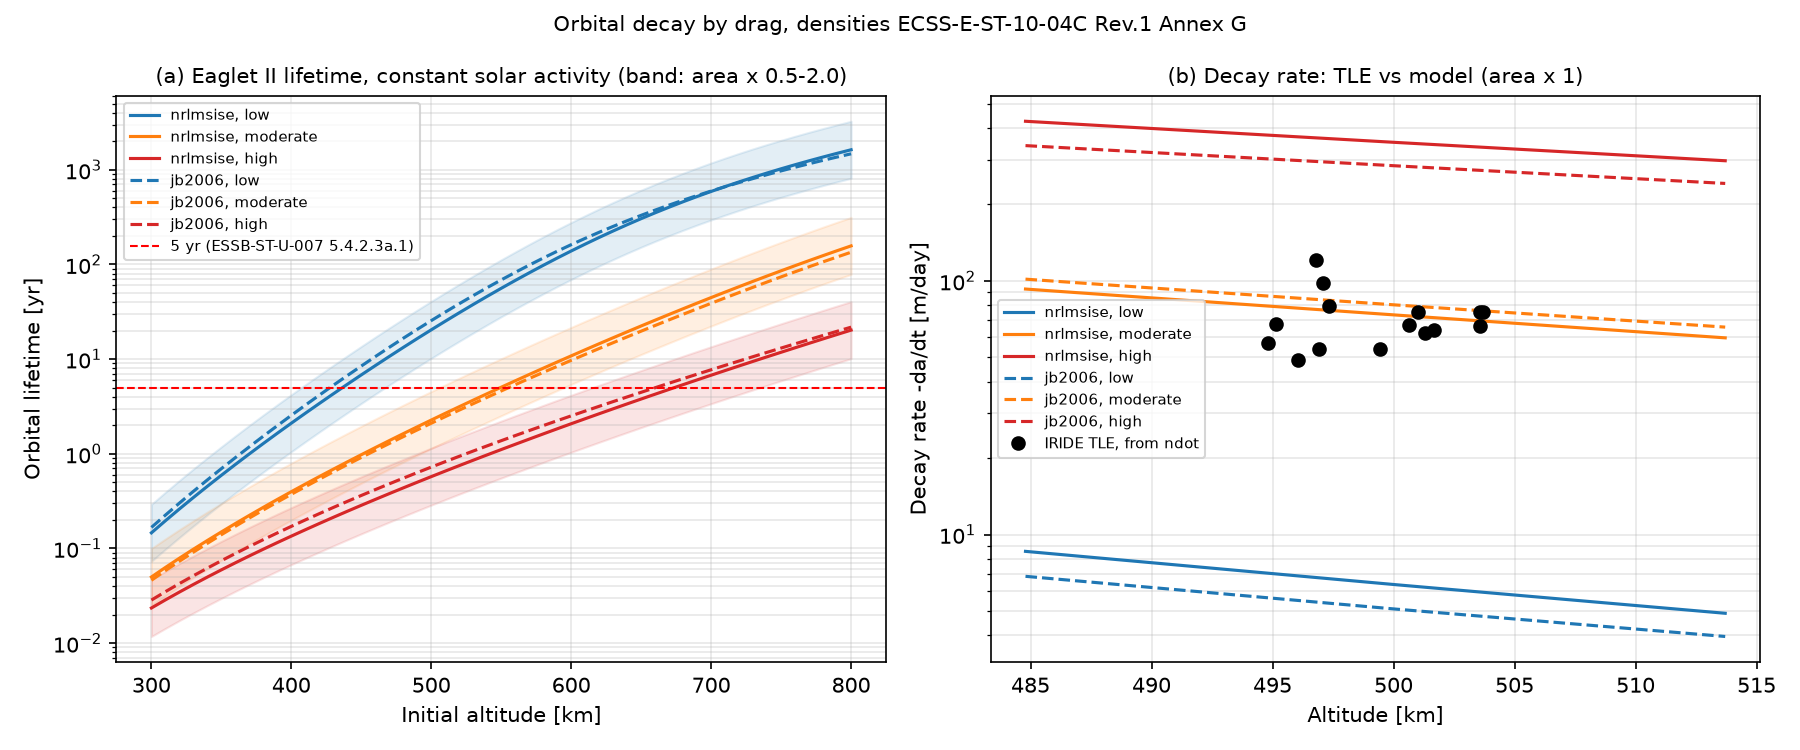
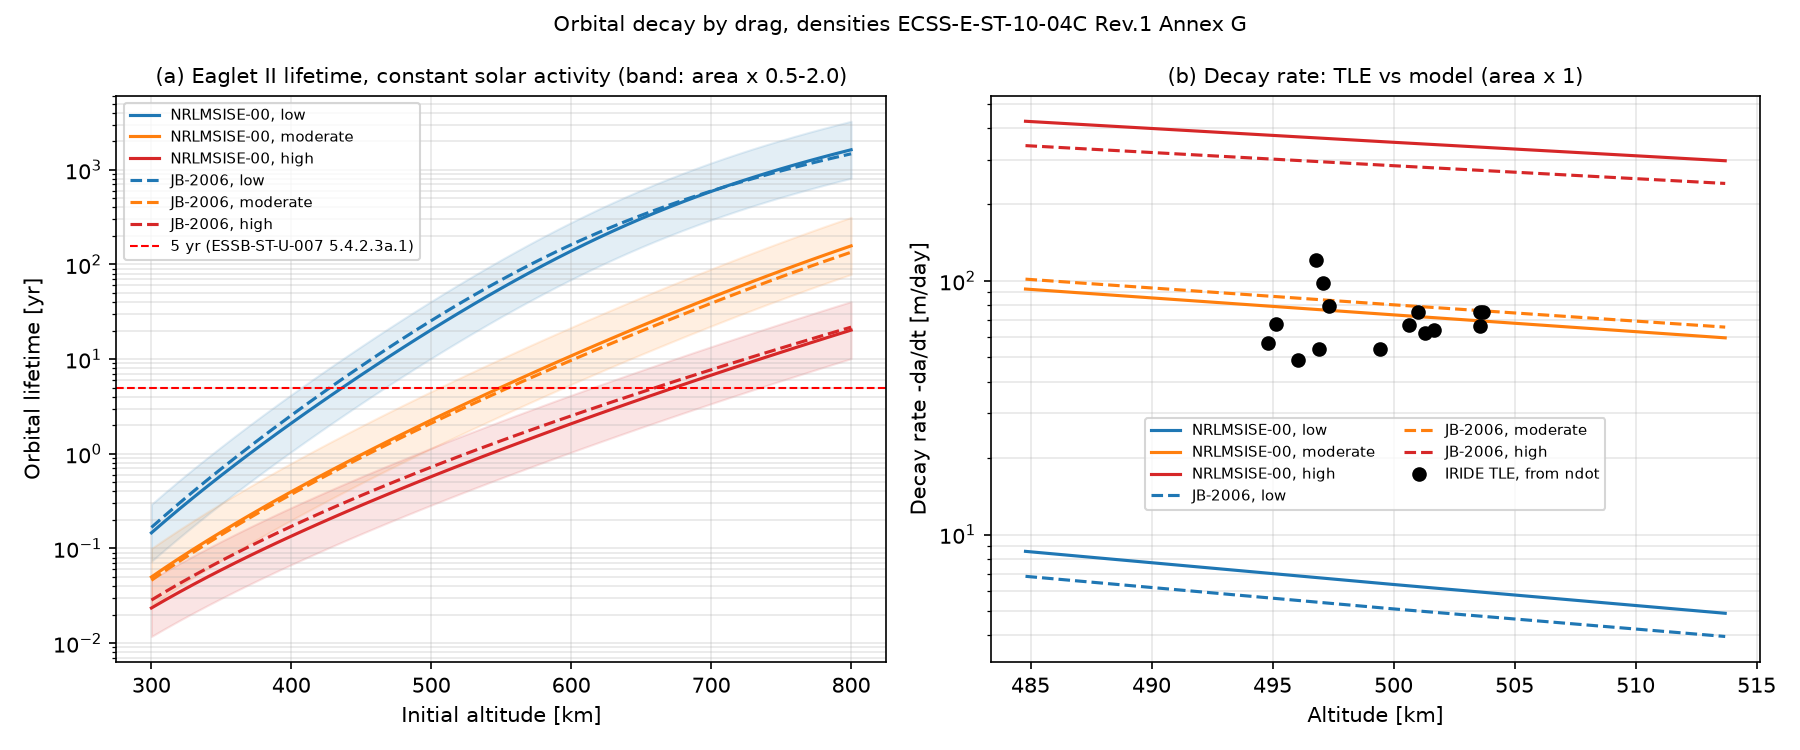
Fast default mode, --full for the report numbers, smoke test, figure fixes, 125 tests passing
- main.py: default = fast mode, N_RUNS_FAST = 200 Monte Carlo runs, no T* seed check, numbers
  printed as APPROXIMATE at start and end; --full = report numbers (1000 runs + T* seeds 42-44).
  --full output verified identical to the previous --full (diff: only the mode line).
  Measured run times in the docstring (fast 5.1 min, --full 14.6 min, flags listed).
- tests/test_main_smoke.py (marked slow, pytest -m slow): fast run of main.py with every DRAMA
  path redirected to a missing folder; finishes, reports the skipped cases, writes the figures.
- data/revisit_table.npz and data/iride_coverage.npz now tracked: derived data (coverage
  lookup tables), not inputs. main.py checks their key (coverage parameters, CSV checksum for
  IRIDE) and rebuilds them if params change; a fresh clone saves ~20-30 min.
- Figures (layout only, no number changed): shorter legend in solar_cycle (a), model names
  NRLMSISE-00 / JB-2006, shorter titles in availability_vs_order_time, legends below the panels
  in cost_vs_availability, revisit_table margins and colorbar unit, decay (b) legend moved,
  altitude_trade lower-bound marker explained in the legend (regenerated with --full --trade).
- params.py: IRIDE_FIRST_LAUNCH source (ASI, https://www.asi.it/en/?p=62498); N_RUNS_FAST.
- requirements.txt: minimum versions used (numpy 2.5.4, scipy 1.18.1, matplotlib 3.11.2,
  pytest 9.2.0; Python 3.15.2).

Changed region(s): [[0.56, 0.3987, 0.9022, 0.6747], [0.0933, 0.1227, 0.1867, 0.3067]]

diff --git a/main.py b/main.py
@@ -43,17 +43,30 @@ Second scenario: IRIDE Eaglet II, planes reconstructed from the derived TLE tabl
 (inputs/iride_eaglet2_elements.csv, written by fetch_tle.py; planes.py).
 
 Usage:
-    python main.py          fast mode (default): the check of T* with the extra seeds
-                            params.SEEDS_CHECK is skipped and the altitude trade-off is not
-                            run; every other result is identical
-    python main.py --full   also runs the T* check with the extra seeds
+    python main.py          fast mode (default): N_RUNS_FAST Monte Carlo runs instead of
+                            N_RUNS / N_RUNS_SWEEP, no check of T* with the extra seeds
+                            params.SEEDS_CHECK: numbers APPROXIMATE, same models and figures
+    python main.py --full   numbers of the report: N_RUNS / N_RUNS_SWEEP runs and the T* check
+                            with the extra seeds
     python main.py --trade  also runs the altitude trade-off (altitude_trade.png)
     python main.py --reliability  also runs the reliability sensitivity (Small-category Weibull,
                             Dubos et al. 2009) at ALT_KM with the reference Walker
-    Run time on the development laptop (2026-11-11): default ~8 min, --trade ~53 min
-    (solar cycle tables at 700-800 km take most of the extra time).
-    --full adds ~4 min (measured before v0.3, not re-measured).
-    --reliability adds ~7 min (measured 2026-11-13: default + --reliability = 14.8 min).
+    Run time on the development laptop (measured 2026-11-13, Python 3.15.2, coverage cache
+    data/*.npz present as in the repository):
+        python main.py                            5.1 min
+        python main.py --reliability             11.8 min   (+6.7)
+        python main.py --trade                   15.9 min   (+10.8) *
+        python main.py --reliability --trade     22.6 min
+        python main.py --full                    14.6 min
+        python main.py --full --reliability      28.1 min   (+13.5) *
+        python main.py --full --trade            38.8 min   (+24.3)
+    Read from per-line timestamps of complete runs (--reliability --trade, --full --trade,
+    --full --reliability --trade): a run without a flag ends where that flag's section starts.
+    * = sum of sections taken from two different runs.
+    About 3 min of the fast default do not depend on the number of runs (solar cycle tables,
+    decay, coverage post-processing). Without data/revisit_table.npz and data/iride_coverage.npz
+    the coverage tables are rebuilt once: ~20-30 min more.
+    Tests: pytest (~1 min); end-to-end run without the DRAMA files: pytest -m slow (~5 min).
     To follow the progress when the output goes to a file: python -u main.py > run.log
 """
 
@@ -84,6 +97,8 @@ from reliability import reliability_analytic
 from search import bisect_interval, search_max_interval
 
 FIG_DIR = "figures"
+ATM_LABELS = {"nrlmsise": "NRLMSISE-00", "jb2006": "JB-2006"}  # model names for the figures
+N_RUNS_REPORT = params.N_RUNS  # runs of the report (--full); main() lowers params.N_RUNS in fast mode
 COVERAGE_CACHE = os.path.join("data", "revisit_table.npz")
 DAY_S = params.SECONDS_PER_DAY
 YEAR_S = params.SECONDS_PER_YEAR
@@ -142,18 +157,20 @@ def hours(x_s):
 # Constellation runs
 # ---------------------------------------------------------------------------
 
-def run_strategy(strategy, order_to_launch_days, n_runs=params.N_RUNS, seed=params.SEED,
+def run_strategy(strategy, order_to_launch_days, n_runs=None, seed=params.SEED,
                  scenario=REFERENCE):
     """Strategies a/b/c/b+c on every plane: one launch per plane at its launch date.
 
     Inputs:
         strategy             : dict with n_spares, reorder_level, pre_order_retirement
         order_to_launch_days : order-to-launch time [days]
-        n_runs, seed         : Monte Carlo runs and master seed
+        n_runs, seed         : Monte Carlo runs (default params.N_RUNS) and master seed
         scenario             : REFERENCE or the IRIDE scenario (slots, launch dates, tables;
                                optional "reliability", default RELIABILITY)
     Output: constellation output (lifecycle.simulate_constellation)
     """
+    if n_runs is None:   # read at call time: main() lowers it in the fast mode
+        n_runs = params.N_RUNS
     inputs = []
     for t_launch_s in scenario["plane_launch_s"]:
         inputs.append(dict(
@@ -311,9 +328,10 @@ def plot_availability_vs_order_time(sweeps, path):
                  label=f"{label}: MC mean")
         ax2.fill_between(ORDER_SWEEP_DAYS, sw["con_p5"], sw["con_p95"],
                          color=line.get_color(), alpha=0.15)
-    ax1.set_title("(a) Mean fraction of occupied slots per plane after deployment")
-    ax2.set_title(f"(b) Constellation availability ({REVISIT_REQS['max']['text']} at "
-                  f"{params.REVISIT_LAT_DEG:.0f} deg N), band 5-95 %")
+    ax1.set_title("(a) Slot availability per plane after deployment\n(mean fraction of occupied slots)",
+                  fontsize=10)
+    ax2.set_title(f"(b) Constellation availability, {REVISIT_REQS['max']['text']} at "
+                  f"{params.REVISIT_LAT_DEG:.0f} deg N\n(MC mean, band 5-95 %)", fontsize=10)
     for ax in (ax1, ax2):
         ax.set_xlabel("Order-to-launch time [days]")
         ax.set_ylabel("Availability [-]")
@@ -542,7 +560,7 @@ def equivalent_rows(rows, best, req):
 def plot_cost_vs_availability(d_curves, d_best, rows, ref_rate, path):
     """Launch rate vs fraction of runs meeting the criterion, one panel per revisit requirement."""
     markers = {0: "s", 1: "D", 2: "^", 3: "v"}
-    fig, axes = plt.subplots(1, 2, figsize=(14, 5.5), sharey=True)
+    fig, axes = plt.subplots(1, 2, figsize=(14, 7.5), sharey=True)
     for ax, (req, spec) in zip(axes, REVISIT_REQS.items()):
         for k, curve in d_curves.items():
             order = np.argsort(curve["rate"])
@@ -564,7 +582,7 @@ def plot_cost_vs_availability(d_curves, d_best, rows, ref_rate, path):
                      f"{params.REVISIT_LAT_DEG:.0f} deg N", fontsize=10)
         ax.set_xlim(0.75 * ref_rate, 1.8 * ref_rate)  # the comparison is around the reference rate
         ax.grid(True, alpha=0.3)
-        ax.legend(fontsize=7, loc="lower right")
+        ax.legend(fontsize=7, loc="upper center", bbox_to_anchor=(0.5, -0.12), ncol=2)  # below the axes
     axes[0].set_ylabel(f"Fraction of runs with availability >= {params.AVAIL_TARGET} [-]")
     axes[0].set_ylim(-0.02, 1.02)
     fig.suptitle(f"Cost vs availability | Walker {params.N_PLANES}/{params.N_SLOTS}, "
@@ -650,7 +668,7 @@ def plot_revisit_vs_latitude(data, path):
 
 def plot_revisit_table(data, path):
     """Lookup table revisit(n_1, n_2) as two annotated grids (max and mean)."""
-    fig, axes = plt.subplots(1, 2, figsize=(11, 4.5))
+    fig, axes = plt.subplots(1, 2, figsize=(11, 5.2))
     for ax, (key, title, limit_h) in zip(axes, [
             ("table_planes_max_s", "(a) Max revisit [h]", params.REVISIT_MAX_HOURS),
             ("table_planes_mean_s", "(b) Mean revisit [h]", params.REVISIT_MEAN_HOURS)]):
@@ -668,11 +686,11 @@ def plot_revisit_table(data, path):
                         color="k" if light else "w", fontweight="bold" if ok else "normal")
         ax.set_xlabel("n_2 operational in plane 2 [-]")
         ax.set_ylabel("n_1 operational in plane 1 [-]")
-        ax.set_title(f"{title}; bold = meets <= {limit_h:.0f} h")
-        fig.colorbar(im, ax=ax)
+        ax.set_title(f"{title}; bold = meets <= {limit_h:.0f} h", fontsize=10)
+        fig.colorbar(im, ax=ax, label="Revisit [h]")
     fig.suptitle(f"Revisit at {params.REVISIT_LAT_DEG:.0f} deg N vs operational satellites per plane "
                  "(R1 rephasing, quasi-stationary)", fontsize=10)
-    fig.tight_layout()
+    fig.tight_layout(rect=(0, 0, 1, 0.95))  # leave room for the suptitle
     fig.savefig(path, dpi=150)
     plt.close(fig)
 
@@ -865,13 +883,13 @@ def plot_decay(tables, b, alt_sat_m, observed, path):
         for level, color in zip(params.SOLAR_ACTIVITY_LEVELS, ("C0", "C1", "C3")):
             t_years = {f: np.array([decay.lifetime(h, params.DECAY_END_ALT_KM * 1e3, alt_m, rho[level], b * f)
                                     for h in alt0_m]) / YEAR_S for f in params.EAGLET_AREA_FACTORS}
-            ax1.plot(alt0_m / 1e3, t_years[1.0], style, color=color, label=f"{model}, {level}")
+            ax1.plot(alt0_m / 1e3, t_years[1.0], style, color=color, label=f"{ATM_LABELS[model]}, {level}")
             if model == params.ATM_MODEL:
                 ax1.fill_between(alt0_m / 1e3, t_years[min(params.EAGLET_AREA_FACTORS)],
                                  t_years[max(params.EAGLET_AREA_FACTORS)], color=color, alpha=0.12)
             rate = decay.decay_rate(coverage.R_E + alt_plot_m,
                                     decay.density(alt_plot_m, alt_m, rho[level]), b) * DAY_S
-            ax2.plot(alt_plot_m / 1e3, -rate, style, color=color, label=f"{model}, {level}")
+            ax2.plot(alt_plot_m / 1e3, -rate, style, color=color, label=f"{ATM_LABELS[model]}, {level}")
     ax1.axhline(params.LEO_LIFETIME_LIMIT_YEARS, color="r", linestyle="--", lw=1,
                 label=f"{params.LEO_LIFETIME_LIMIT_YEARS:.0f} yr (ESSB-ST-U-007 5.4.2.3a.1)")
     ax1.set_yscale("log")
@@ -885,9 +903,10 @@ def plot_decay(tables, b, alt_sat_m, observed, path):
     ax2.set_xlabel("Altitude [km]")
     ax2.set_ylabel("Decay rate -da/dt [m/day]")
     ax2.set_title("(b) Decay rate: TLE vs model (area x 1)", fontsize=10)
+    ax1.legend(fontsize=7)
+    ax2.legend(fontsize=7, ncol=2, loc="center", bbox_to_anchor=(0.5, 0.35))  # empty band between the curves
     for ax in (ax1, ax2):
         ax.grid(True, which="both", alpha=0.3)
-        ax.legend(fontsize=7)
     fig.suptitle("Orbital decay by drag, densities ECSS-E-ST-10-04C Rev.1 Annex G", fontsize=10)
     fig.tight_layout()
     fig.savefig(path, dpi=150)
@@ -1195,8 +1214,10 @@ def plot_solar_cycle(scen, cyc, alt_op_m, const, path):
     for name, s in scen.items():
         lo, hi = s["range_months"]
         k = np.arange(int(lo), int(hi) + 1)
+        short = {"strong cycle": "strong cycle (ECSS Table A-1, cycle 23)",
+                 WEAK: "ESA forecast 2021 (weak cycle 25)"}   # sources in the report
         ax1.plot((k - lo) * s["step_s"] / YEAR_S, s["f107"][k % len(s["f107"])], color=colors[name],
-                 label=f"{name}: {s['source']}")
+                 label=short.get(name, name))
     for f, lv in zip(params.SOLAR_F107_NODES, params.SOLAR_ACTIVITY_LEVELS):
         ax1.axhline(f, color="gray", linestyle=":", lw=1)
         ax1.text(11.6, f + (3 if f > 70 else -9), f"ECSS {lv} ({f:.0f})", fontsize=7, color="gray",
@@ -1205,7 +1226,7 @@ def plot_solar_cycle(scen, cyc, alt_op_m, const, path):
     ax1.set_xlabel("Years from the start of the cycle")
     ax1.set_ylabel("F10.7 [sfu]")
     ax1.set_title("(a) Solar activity scenarios (one cycle)", fontsize=10)
-    ax1.legend(fontsize=7, loc="upper left")
+    ax1.legend(fontsize=8, loc="upper right")
     styles = {debris.FAILED: ("-", f"failed at {alt_op_m / 1e3:.0f} km"),
               debris.DISPOSED: ("--", f"disposed at {params.DISPOSAL_ALT_KM:.0f} km")}
     for name, tab in cyc.items():
@@ -1222,7 +1243,7 @@ def plot_solar_cycle(scen, cyc, alt_op_m, const, path):
     ax2.axhline(params.LEO_LIFETIME_LIMIT_YEARS, color="k", linestyle="--", label="ESSB 5-yr limit")
     ax2.set_xlabel("Phase of the end of life [years from the start of the cycle]")
     ax2.set_ylabel(f"Residual lifetime to {params.DECAY_END_ALT_KM:.0f} km [yr]")
-    ax2.set_title(f"(b) Eaglet II, {params.ATM_MODEL}, ln(rho) interpolated in F10.7", fontsize=10)
+    ax2.set_title(f"(b) Eaglet II, {ATM_LABELS[params.ATM_MODEL]}, ln(rho) interpolated in F10.7", fontsize=10)
     ax2.legend(fontsize=7, loc="upper left", bbox_to_anchor=(1.01, 1.0))
     for ax in (ax1, ax2):
         ax.grid(True, which="both", alpha=0.3)
@@ -1637,12 +1658,14 @@ CYCLE_STYLE = {"strong cycle": ("s--", "tab:brown"), WEAK: ("D--", "tab:green")}
 
 
 def mark_lower_bounds(ax, rows, name, values, color):
-    """Open marker and '>=' where the forecast ended before the re-entry (lower bound)."""
+    """Open circle where the forecast ended before the re-entry (value is a lower bound).
+
+    The meaning goes in the legend (one entry per axis), not as text next to the points."""
+    label = "open circle: lower bound (forecast ends 2129)"
     for r, v in zip(rows, values):
         if r[f"censored_{name}"]:
-            ax.plot(r["alt_km"], v, "o", ms=12, mfc="none", color=color)
-            ax.annotate(">= (forecast ends 2129)", (r["alt_km"], v), textcoords="offset points",
-                        xytext=(-6, -14), ha="right", fontsize=7, color=color)
+            ax.plot(r["alt_km"], v, "o", ms=12, mfc="none", color=color, label=label)
+            label = None
 
 
 def plot_altitude_trade(rows, path, cycles=()):
@@ -1658,14 +1681,14 @@ def plot_altitude_trade(rows, path, cycles=()):
     tie_label = f"equivalent to the requirement ({params.MC_CI_LEVEL:.0%} binomial interval)"
     for r in rows:
         ax.annotate(f"Walker {'/'.join(map(str, r['walker']))}\n{short_label(r['label'])}",
-                    (r["alt_km"], r["rate"]), textcoords="offset points", xytext=(0, 8),
-                    ha="center", fontsize=7)
+                    (r["alt_km"], r["rate"]), textcoords="offset points", xytext=(5, 6),
+                    ha="left", fontsize=7)  # above-right: free of the line on both sides
         for label, rate in r["equivalent"]:  # no single winner at this altitude
             ax.plot(r["alt_km"], rate, "o", mfc="none", color="k", label=tie_label)
             ax.annotate(short_label(label), (r["alt_km"], rate), textcoords="offset points",
                         xytext=(0, -12), ha="center", fontsize=7)
             tie_label = None  # one legend entry only
-    ax.margins(x=0.12, y=0.2)  # room for the text above and below the points
+    ax.margins(x=0.18, y=0.2)  # room for the text above and below the points
     ax.legend(fontsize=7, loc="upper right")
     ax.set_ylabel("Launch rate [satellites/yr]")
     ax.set_title("(a) Smallest Walker and cheapest strategy (max revisit)")
@@ -1679,6 +1702,7 @@ def plot_altitude_trade(rows, path, cycles=()):
         mark_lower_bounds(ax, rows, name, [r[f"life_failed_{name}"].mean() for r in rows], c)
     ax.axhline(params.LEO_LIFETIME_LIMIT_YEARS, color="k", linestyle="--", label="ESSB 5-yr limit")
     ax.set_ylabel("Residual lifetime of a failed satellite [yr]")
+    ax.set_ylim(top=3e4)  # room for the legend above the curves
     ax.set_title("(b) Natural decay from the operational altitude")
     ax = axes[1, 0]
     for lv, c in zip(levels, colors):
@@ -1688,6 +1712,7 @@ def plot_altitude_trade(rows, path, cycles=()):
         ax.semilogy(alt, [r[f"objyr_{name}"] for r in rows], marker, color=c, label=name)
         mark_lower_bounds(ax, rows, name, [r[f"objyr_{name}"] for r in rows], c)
     ax.set_ylabel("Dead object-years per run (committed)")
+    ax.set_ylim(top=3e4)  # room for the legend above the curves
     ax.set_title(f"(c) Objects left in {params.SIM_DURATION_YEARS:.0f} yr, p_manoeuvre = "
                  f"{params.DISPOSAL_PROB_REF}")
     ax = axes[1, 1]
@@ -1964,14 +1989,17 @@ def reliability_study(results, cost, full):
 def main():
     parser = argparse.ArgumentParser(description="Constellation lifecycle simulator, nominal case")
     parser.add_argument("--full", action="store_true",
-                        help="also check T* of strategy d) with the extra seeds (slower)")
+                        help="numbers of the report: all Monte Carlo runs and the T* seed check (slower)")
     parser.add_argument("--trade", action="store_true",
                         help="also run the altitude trade-off (slower)")
     parser.add_argument("--reliability", action="store_true",
                         help="also run the reliability sensitivity (Small-category Weibull)")
     args = parser.parse_args()
     full = args.full
-    print("Mode: full" if full else "Mode: fast (use --full for the T* seed check)")
+    print(mode_text(full))
+    if not full:   # fast mode: fewer runs everywhere (read at call time from params)
+        params.N_RUNS = params.N_RUNS_FAST
+        params.N_RUNS_SWEEP = params.N_RUNS_FAST
     os.makedirs(FIG_DIR, exist_ok=True)
 
     print("Coverage of the reference Walker constellation")
@@ -2016,6 +2044,17 @@ def main():
     else:
         print("Altitude trade-off skipped, run with --trade (altitude_trade.png not updated)")
     print(f"Figures saved in {FIG_DIR}/")
+    print(mode_text(full))
+
+
+def mode_text(full):
+    """One line on the run mode, printed at the start and at the end of main()."""
+    if full:
+        return (f"Mode: full ({params.N_RUNS} Monte Carlo runs, T* checked with seeds "
+                f"{params.SEED}, {', '.join(str(s) for s in params.SEEDS_CHECK)}): numbers of the report")
+    return (f"Mode: FAST ({params.N_RUNS_FAST} Monte Carlo runs instead of {N_RUNS_REPORT}, no T* seed "
+            "check): numbers APPROXIMATE (wider binomial intervals, T* may differ by a few days); "
+            "run with --full for the numbers of the report")
 
 
 if __name__ == "__main__":

diff --git a/tests/test_main_smoke.py b/tests/test_main_smoke.py
@@ -1,0 +1,44 @@
+"""End-to-end run of main.py in the default fast mode, without the external DRAMA files.
+
+All the paths outside the repository (DRAMA 4.1.4 installation, DRAMA_projects runs) are
+redirected to a folder that does not exist, as on a machine where they are not installed:
+the run must finish, skipping those cases with a message. Figures go to a temporary folder.
+Slow (~3 min): excluded from the default pytest run, run with  pytest -m slow
+"""
+
+import os
+import sys
+
+import pytest
+
+import main
+import params
+
+FIGURES = ["revisit_vs_latitude.png", "revisit_table.png", "active_vs_time.png",
+           "availability_vs_order_time.png", "cost_vs_availability.png", "iride_scenario.png",
+           "decay.png", "end_of_life.png", "solar_cycle.png"]
+
+
+@pytest.mark.slow
+def test_main_fast_mode_without_drama(tmp_path, monkeypatch, capsys):
+    missing = str(tmp_path / "not_installed")
+    monkeypatch.setattr(params, "OSCAR_FORECAST_PATH", os.path.join(missing, "fap_mon.dat"))
+    monkeypatch.setattr(params, "SARA_POPULATION_1D_PATH", os.path.join(missing, "pop.csv"))
+    monkeypatch.setattr(params, "OSCAR_S3B_RUNS",
+                        {k: {**v, "folder": os.path.join(missing, k)} for k, v in params.OSCAR_S3B_RUNS.items()})
+    monkeypatch.setattr(params, "SARA_RUNS",
+                        {k: {**v, "folder": os.path.join(missing, k)} for k, v in params.SARA_RUNS.items()})
+    # main() lowers the run counts in fast mode: restore them after the test
+    monkeypatch.setattr(params, "N_RUNS", params.N_RUNS)
+    monkeypatch.setattr(params, "N_RUNS_SWEEP", params.N_RUNS_SWEEP)
+    monkeypatch.setattr(main, "CADENCE_CACHE", {})
+    monkeypatch.setattr(main, "FIG_DIR", str(tmp_path / "figures"))
+    monkeypatch.setattr(sys, "argv", ["main.py"])
+
+    main.main()
+
+    out = capsys.readouterr().out
+    assert "Mode: FAST" in out and "APPROXIMATE" in out
+    assert "not found" in out                        # the missing DRAMA cases are reported
+    for name in FIGURES:
+        assert os.path.exists(tmp_path / "figures" / name), name

diff --git a/params.py b/params.py
@@ -368,8 +368,9 @@ CYCLE25_START_ECSS_ONLY = "2020-06-01"  # 2008-12-01 + 140 x 30 days (sensitivit
 # general case: ASSUMPTION uniform over one cycle, one draw per Monte Carlo run (launch date
 # unknown with respect to the cycle); strong cycle 0-140 months; ESA forecast 2021 from the start
 # of cycle 25 to the next minimum of the forecast (found in the file).
-# IRIDE case: first launch of the Eaglet II satellites 2025-11-28 (date given by the user,
-# TO VERIFY with a public launch record).
+# IRIDE case: first launch of the Eaglet II satellites 2025-11-28. Source: ASI, "IRIDE - Satellite
+# Constellation for Earth Observation", https://www.asi.it/en/?p=62498: 8 Eaglet II launched on
+# 28 November 2025, SpaceX Falcon 9, Transporter-15, Vandenberg.
 IRIDE_FIRST_LAUNCH = "2025-11-28"
 SOLAR_PHASE_SEED_STREAM = 8  # seed sequence [SEED, 8] of the mission start phase (separate stream)
 SOLAR_PHASE_GRID_MONTHS = 1.0  # spacing of the phase grid of the residual lifetime tables [months]
@@ -436,4 +437,7 @@ SIM_DURATION_YEARS = 15.0  # ASSUMPTION: reference mission horizon, to be review
 DT_DAYS = 1.0              # fixed time step (project rule, CLAUDE.md)
 N_RUNS = 1000              # number of Monte Carlo runs
 N_RUNS_SWEEP = 1000        # Monte Carlo runs per point of the parameter sweeps in main.py
+# N_RUNS and N_RUNS_SWEEP above are the values of the report (python main.py --full).
+N_RUNS_FAST = 200          # ASSUMPTION: runs of the default fast mode of main.py (both N_RUNS and
+                           # N_RUNS_SWEEP), a compromise run time / precision: results approximate
 SEED = 42                  # master seed of the Monte Carlo
